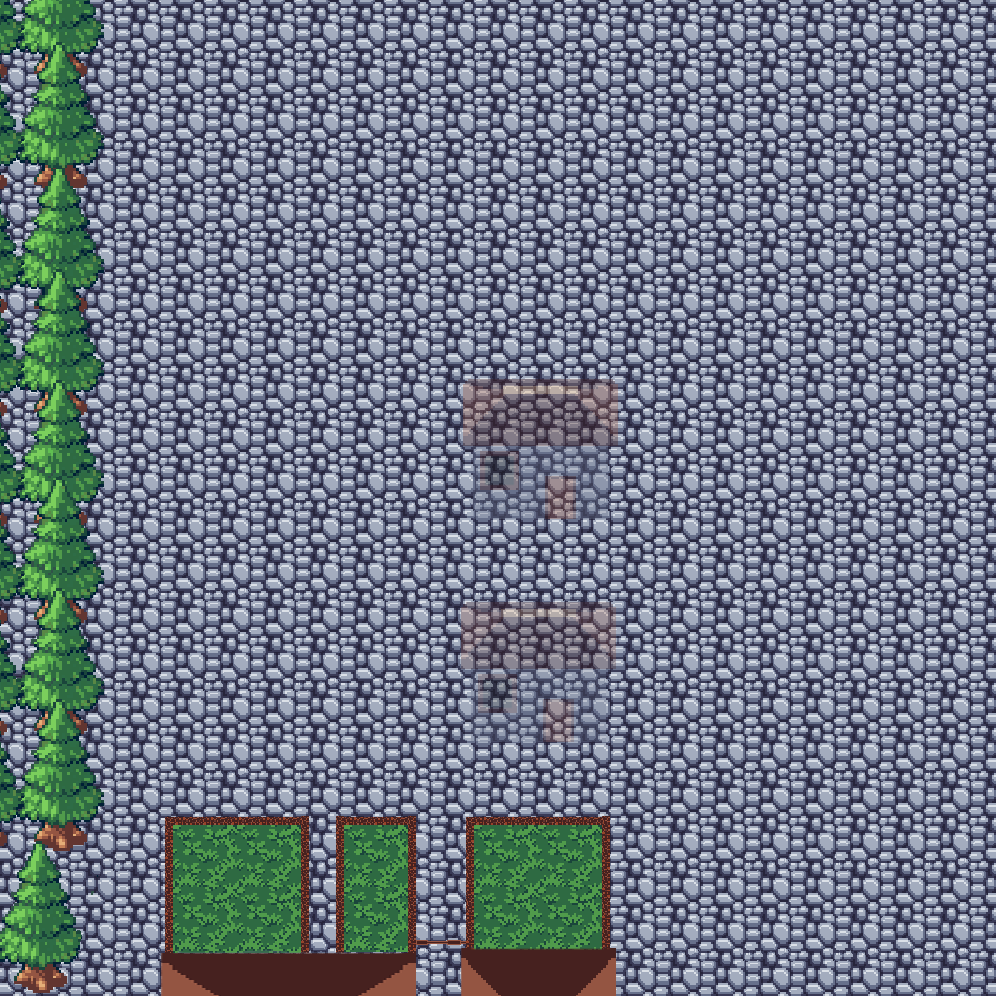
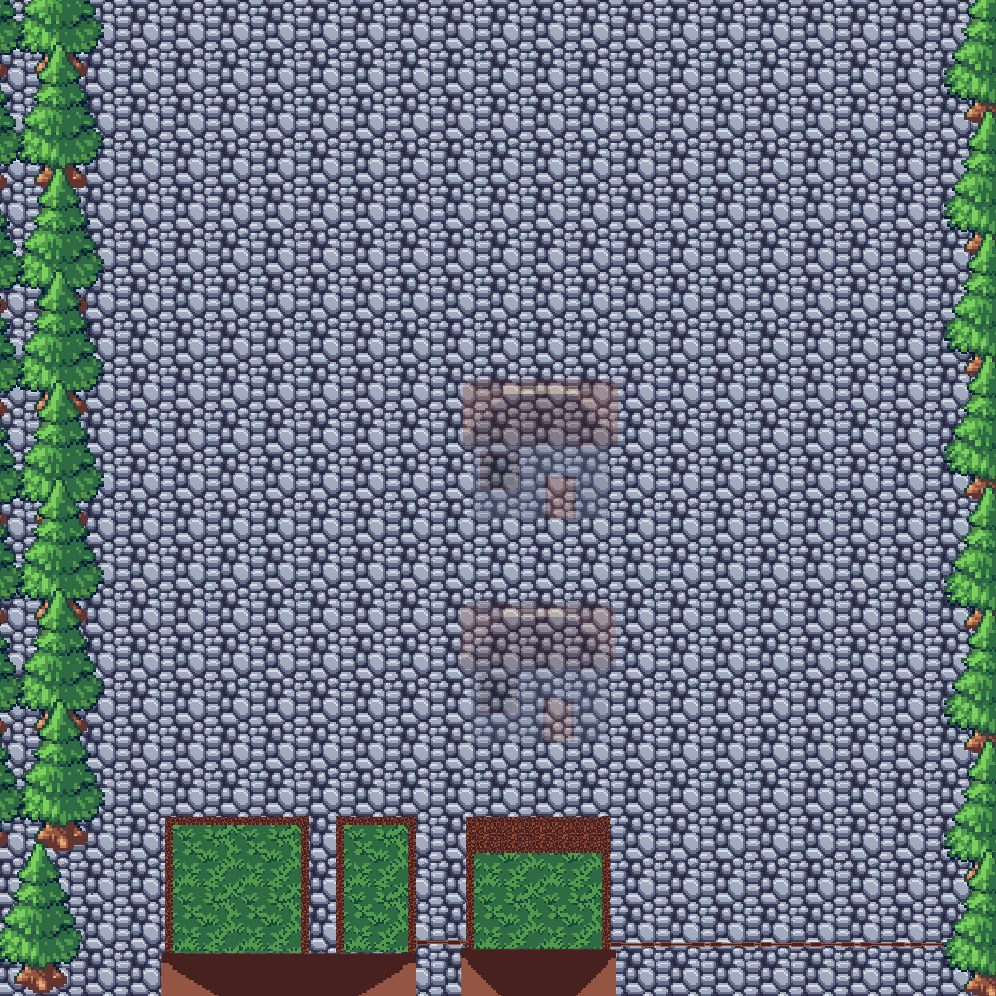
Addeed butcher building. Worked on textboxes

Changed region(s): [[0.6225, 0.0, 1.0, 1.0], [0.4669, 0.8092, 0.6225, 0.8715], [0.0, 0.7159, 0.0934, 0.8404]]

diff --git a/Projects/Project RPG/js/hall.js b/Projects/Project RPG/js/hall.js
@@ -1,5 +1,7 @@
 let hallObjects
 let oscillator;
+let textState = 0
+let doorSelector = 0
 
 class Hall {
   constructor(bg_hall, mainDoor){
@@ -20,7 +22,7 @@ class Hall {
   }
 
   start(){
-    oscillator = new p5.Oscillator(220, 'square')
+    oscillator = new p5.Oscillator(220, 'triangle')
     oscillator.start()
     player.sprite.position.x = 325;
     player.sprite.position.y = 365;
@@ -30,6 +32,105 @@ class Hall {
     image(bg_hall, 0, 0);
     drawSprites(hallObjects)
   }
+
+  keyPressed() {
+    if (mainDoor.sprite.overlap(player.sprite) && keyCode === SHIFT){
+       textState = 1
+  }
+}
+
+  DoorText1() {
+    if (textState === 1 && mainDoor.sprite.overlap(player.sprite)){
+      choice()
+      push()
+      textBox()
+      fill(255)
+      let t1 = "Leave home and go outside? "
+      let yesDoor = "erm... yes?"
+      let noDoor = "No way in hell"
+      textSize(12)
+      text(t1, x, y, width, height)
+
+     if (doorSelector === 1) {
+        fill(229, 112, 40)
+        text(yesDoor, x, y2- 30)
+        fill(255)
+        text(noDoor, 280, y2- 30)
+      }
+      else if (doorSelector === 2){
+        fill(255)
+        text(yesDoor, x, y2- 30)
+        fill(229, 112, 40)
+        text(noDoor, 280, y2- 30)
+      }
+      pop()
+    }
+  }
+
+  DoorText2() {
+    if (textState === 2 && mainDoor.sprite.overlap(player.sprite)){
+      choice()
+      push()
+      textBox()
+      fill(255)
+      let t2 = "Are you sure? "
+      let yesDoor2 = "yes"
+      let noDoor2 = "No I'm really not"
+      textSize(12)
+      text(t2, x, y, width, height)
+
+     if (doorSelector === 1) {
+        fill(229, 112, 40)
+        text(yesDoor2, x, y2 - 30)
+        fill(255)
+        text(noDoor2, 250, y2 - 30)
+      }
+      else if (doorSelector === 2){
+        fill(255)
+        text(yesDoor2, x, y2 - 30)
+        fill(229, 112, 40)
+        text(noDoor2, 250, y2 - 30)
+      }
+      pop()
+    }
+  }
+
+  DoorText3() {
+    if (textState === 3 && mainDoor.sprite.overlap(player.sprite)){
+      choice()
+      push()
+      textBox()
+      fill(255)
+      let t3 = "Last chance to stay home. "
+      let yesDoor3 = "I have to feed myself"
+      let noDoor3 = "I can't"
+      textSize(12)
+      text(t3, x, y, width, height)
+
+     if (doorSelector === 1) {
+        fill(229, 112, 40)
+        text(yesDoor3, x - 30, y2 - 30)
+        fill(255)
+        text(noDoor3, 330, y2 - 30)
+      }
+      else if (doorSelector === 2){
+        fill(255)
+        text(yesDoor3, x - 30, y2 - 30)
+        fill(229, 112, 40)
+        text(noDoor3, 330, y2 - 30)
+      }
+      pop()
+    }
+  }
+
+  changeTextState(){
+    if (textState === 1 && doorSelector === 1 || textState === 2 && doorSelector === 1){
+    textState += 1
+  }
+    else {
+      textState = 0
+    }
+}
 
 
   boundaries(){
@@ -48,10 +149,26 @@ class Hall {
     }
   }
 
+  exit2(){
+    if (textState === 3 && doorSelector === 1){
+      scene = 'outside'
+      player.sprite.position.x = 65
+      player.sprite.position.y = 620
+      oscillator.stop()
+      bedroom.sprite.remove()
+      bedroom.desk.sprite.remove()
+      bSedroom.door.sprite.remove()
+      this.sprite.remove()
+      maindoor.sprite.remove()
+    }
+
+  }
+
+
   //Oscillator which increases its frequency the closer you get to the main door
   anxiety(){
     let doorDistance = dist(player.sprite.position.x, player.sprite.position.y, mainDoor.sprite.position.x, mainDoor.sprite.position.y) // Measures distance between player and door
-    let newFreq = map(doorDistance, 280, 20, 0, 10)// Max dist = 270. Min = 20
+    let newFreq = map(doorDistance, 280, 20, 0, 100)// Max dist = 270. Min = 20
     oscillator.freq(newFreq);
     console.log(newFreq);
   }

diff --git a/Projects/Project RPG/js/outside.js b/Projects/Project RPG/js/outside.js
@@ -2,8 +2,9 @@ let buildings;
 let entities;
 
 class Outside{
-  constructor(bg_outside, house1, house2, house3, house4, dog, evildog, growl, tree, outsideTheme){
+  constructor(bg_outside, house1, house2, house3, house4, butchery, dog, evildog, growl, tree, outsideTheme){
     this.bg = bg_outside // background image
+    this.song = outsideTheme
 
     house1.sprite = createSprite(280, 420);
     house1.sprite.addAnimation("house1", house1);
@@ -29,6 +30,10 @@ class Outside{
     house4.sprite.addToGroup(buildings)
     house4.sprite.depth = 1;
 
+    butchery.sprite = createSprite(560, 174);
+    butchery.sprite.addAnimation("butchery", butchery);
+    butchery.sprite.addToGroup(buildings)
+
     dog.sprite = createSprite(280, 600)
     dog.sprite.addAnimation("dog", dog);
     dog.sprite.addAnimation("evildog", evildog)
@@ -40,11 +45,6 @@ class Outside{
     tree.sprite.addToGroup(buildings)
     tree.sprite.depth = 10;
 
-    player.sprite.position.x = 65
-    player.sprite.position.y = 620
-
-    outsideTheme.play()
-
   //  bedroom.bed_sprite.remove()
   }
 
@@ -54,7 +54,11 @@ class Outside{
     image(this.bg, 249, 249)
     pop()
     drawSprites(buildings)
-
+    // bedroom.sprite.remove()
+    // bedroom.desk.sprite.remove()
+    // bedroom.door.sprite.remove()
+    // hall.sprite.remove()
+    // hall.maindoor.sprite.remove()
   }
 
   doggo(){
@@ -75,7 +79,7 @@ class Outside{
   boundaries(){
     if (player.sprite.position.x < -145) player.sprite.position.x = -145;
     if (player.sprite.position.y < -100) player.sprite.position.y = -100;
-    if (player.sprite.position.x > 650) player.sprite.position.x = 650;
+    if (player.sprite.position.x > 680) player.sprite.position.x = 680;
     if (player.sprite.position.y > 660) player.sprite.position.y = 660;
 
     player.sprite.collide(house1.sprite);
@@ -84,5 +88,15 @@ class Outside{
     player.sprite.collide(house4.sprite);
     player.sprite.collide(dog.sprite);
     player.sprite.collide(tree.sprite);
+    player.sprite.collide(butchery.sprite);
   }
+
+  song(){
+    if (scene === "outside"){
+      if (!this.song.isPlaying()) {
+        this.song.play();
+    }
+  }
+}
+
 }

diff --git a/Projects/Project RPG/js/scriptOOP.js b/Projects/Project RPG/js/scriptOOP.js
@@ -61,6 +61,7 @@ function preload() {
   house2 = loadAnimation("assets/images/exterior/house2.png");
   house3 = loadAnimation("assets/images/exterior/house3.png");
   house4 = loadAnimation("assets/images/exterior/house2.png");
+  butchery = loadAnimation("assets/images/exterior/butchery.png");
   dog = loadAnimation("assets/images/exterior/dog_sprite1.png", "assets/images/exterior/dog_sprite2.png" );
   evildog = loadImage("assets/images/exterior/evildog_sprite1.png")
   tree = loadAnimation("assets/images/exterior/tree.png")
@@ -78,9 +79,8 @@ function setup() {
 
   bedroom = new Bedroom(bed, bg_bedroom, ting);
   hall = new Hall(bg_hall, mainDoor);
-  if (scene === 'outside'){
-  outside = new Outside(bg_outside, house1, house2, house3, house4, dog, evildog, growl, tree, outsideTheme);
-}
+  outside = new Outside(bg_outside, house1, house2, house3, house4, butchery, dog, evildog, growl, tree, outsideTheme);
+
   phone = new Phone(phoneScreen, selfieIndoor);
 }
 
@@ -102,6 +102,9 @@ function draw() {
   if (scene === 'hall'){
     hall.display()
     hall.boundaries()
+    hall.DoorText1()
+    hall.DoorText2()
+    hall.DoorText3()
     hall.exit()
     hall.anxiety()
   }
@@ -124,7 +127,7 @@ function draw() {
   phone.camera();
 
 
-  console.log(showB3)
+  console.log(textState)
   //console.log(phone.selected);
   //console.log(bed_sprite.overlap(player_sprite));
 
@@ -136,15 +139,19 @@ function draw() {
    if (scene === 'bedroom'){
    bedroom.keyPressed()//Interacts with bed
   }
+  if (scene === 'hall'){
+  hall.keyPressed()//Interacts with bed
+ }
   outside.doggo()
  }
 
 
  function mousePressed() {
    phone.selectApp();
-   phone.exit();
+   phone.exit()
    bedroom.changeText();
-
+   hall.changeTextState();
+   hall.exit2()
 }
 
 function textBox(){
@@ -158,8 +165,10 @@ function textBox(){
 function choice(){
   if (mouseX < width / 2){
     deskSelector = 1
+    doorSelector = 1
   }
   else {
     deskSelector = 2
+    doorSelector = 2
   }
 }

diff --git a/Projects/Project RPG/js/bedroomOOP.js b/Projects/Project RPG/js/bedroomOOP.js
@@ -10,6 +10,7 @@ class Bedroom {
   constructor(bed, bg_bedroom, ting){
 
     things = new Group()
+    if (scene === 'bedroom'){
     this.sprite = createSprite(370, 350, 12, 10);
     this.sprite.addAnimation("bed", bed);
     this.sprite.depth = 1;
@@ -30,7 +31,7 @@ class Bedroom {
 
     player.sprite.position.x = 200
     player.sprite.position.y = 200
-
+  }
   }
 
   display(){
@@ -133,10 +134,10 @@ class Bedroom {
       showB2 = false
       showB4 = true
     }
-    if (showB3 === true || showB4 === true){
-      showB3 = false
-      showB4 = false
-    }
+    // if (showB3 === true || showB4 === true){
+    //   showB3 = false
+    //   showB4 = false
+    // }
   }
 
   boundaries(){

diff --git a/Projects/Project RPG/js/playerOOP.js b/Projects/Project RPG/js/playerOOP.js
@@ -124,10 +124,6 @@ class Player {
       drawSprites(humans)
     }
 
-    restrict() {
-      this.sprite.velocity.x = 0
-      this.sprite.velocity.y = 0
-    }
 
 }
     // stopSound() {
